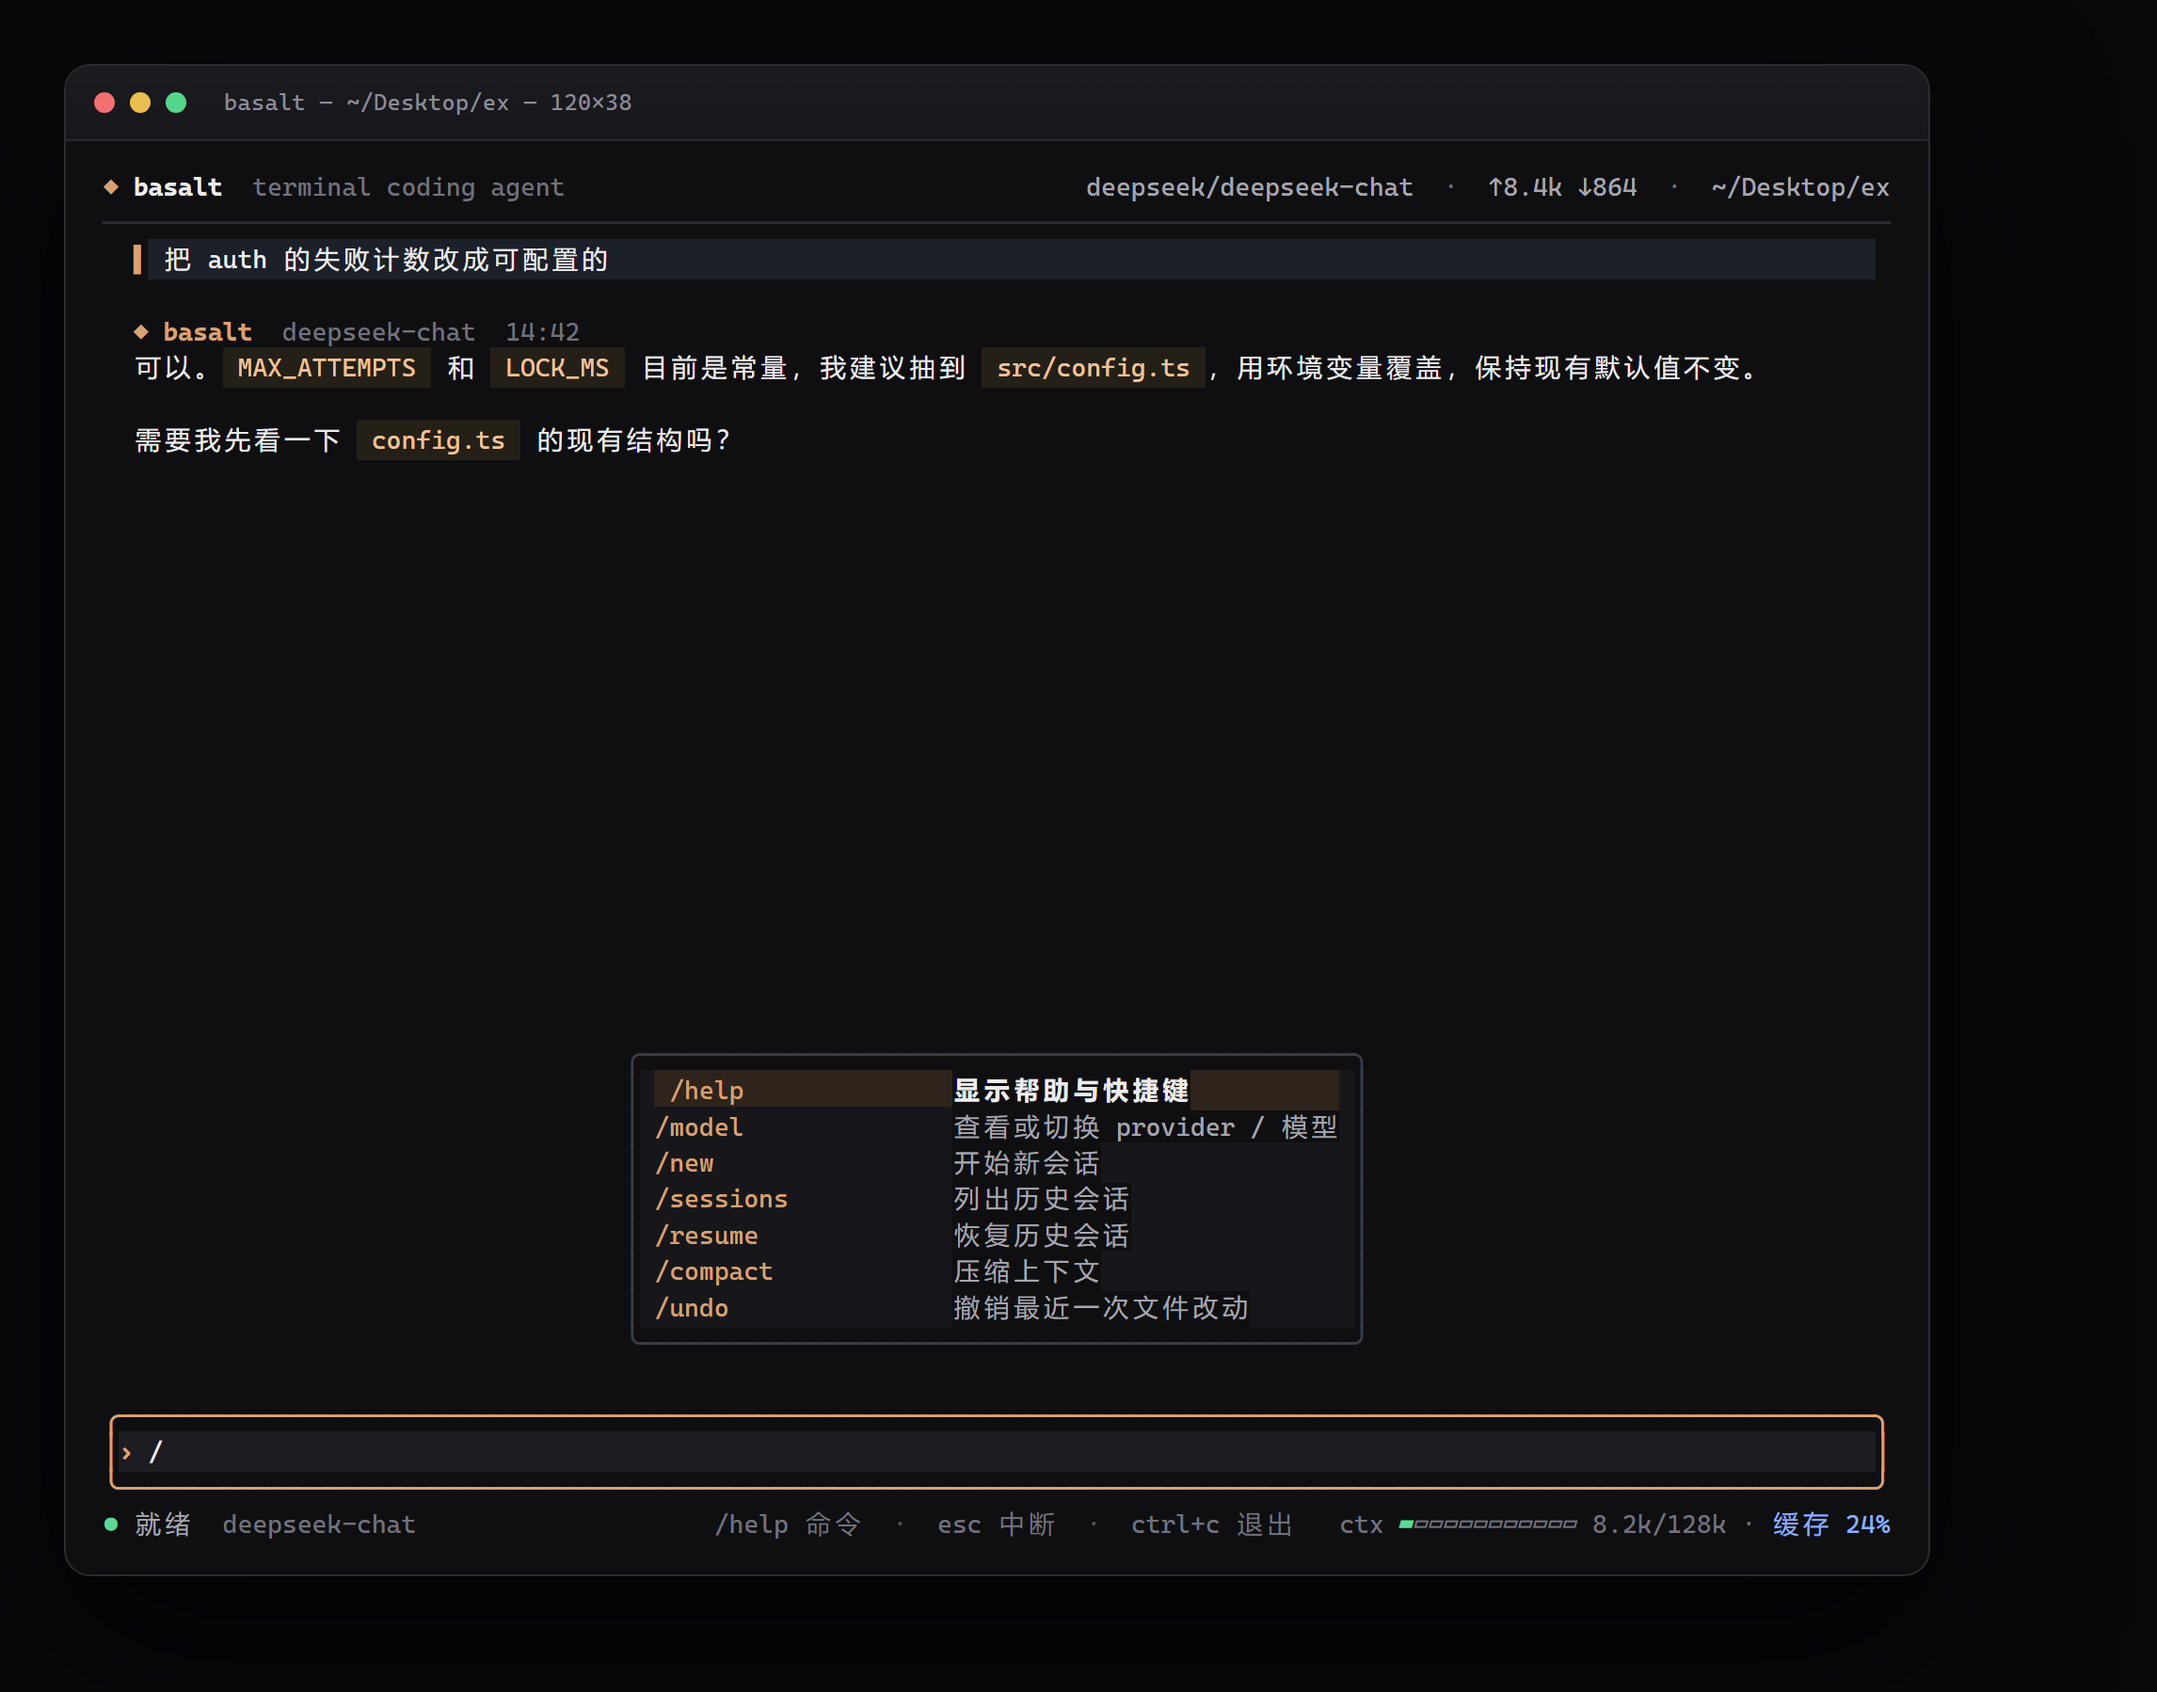
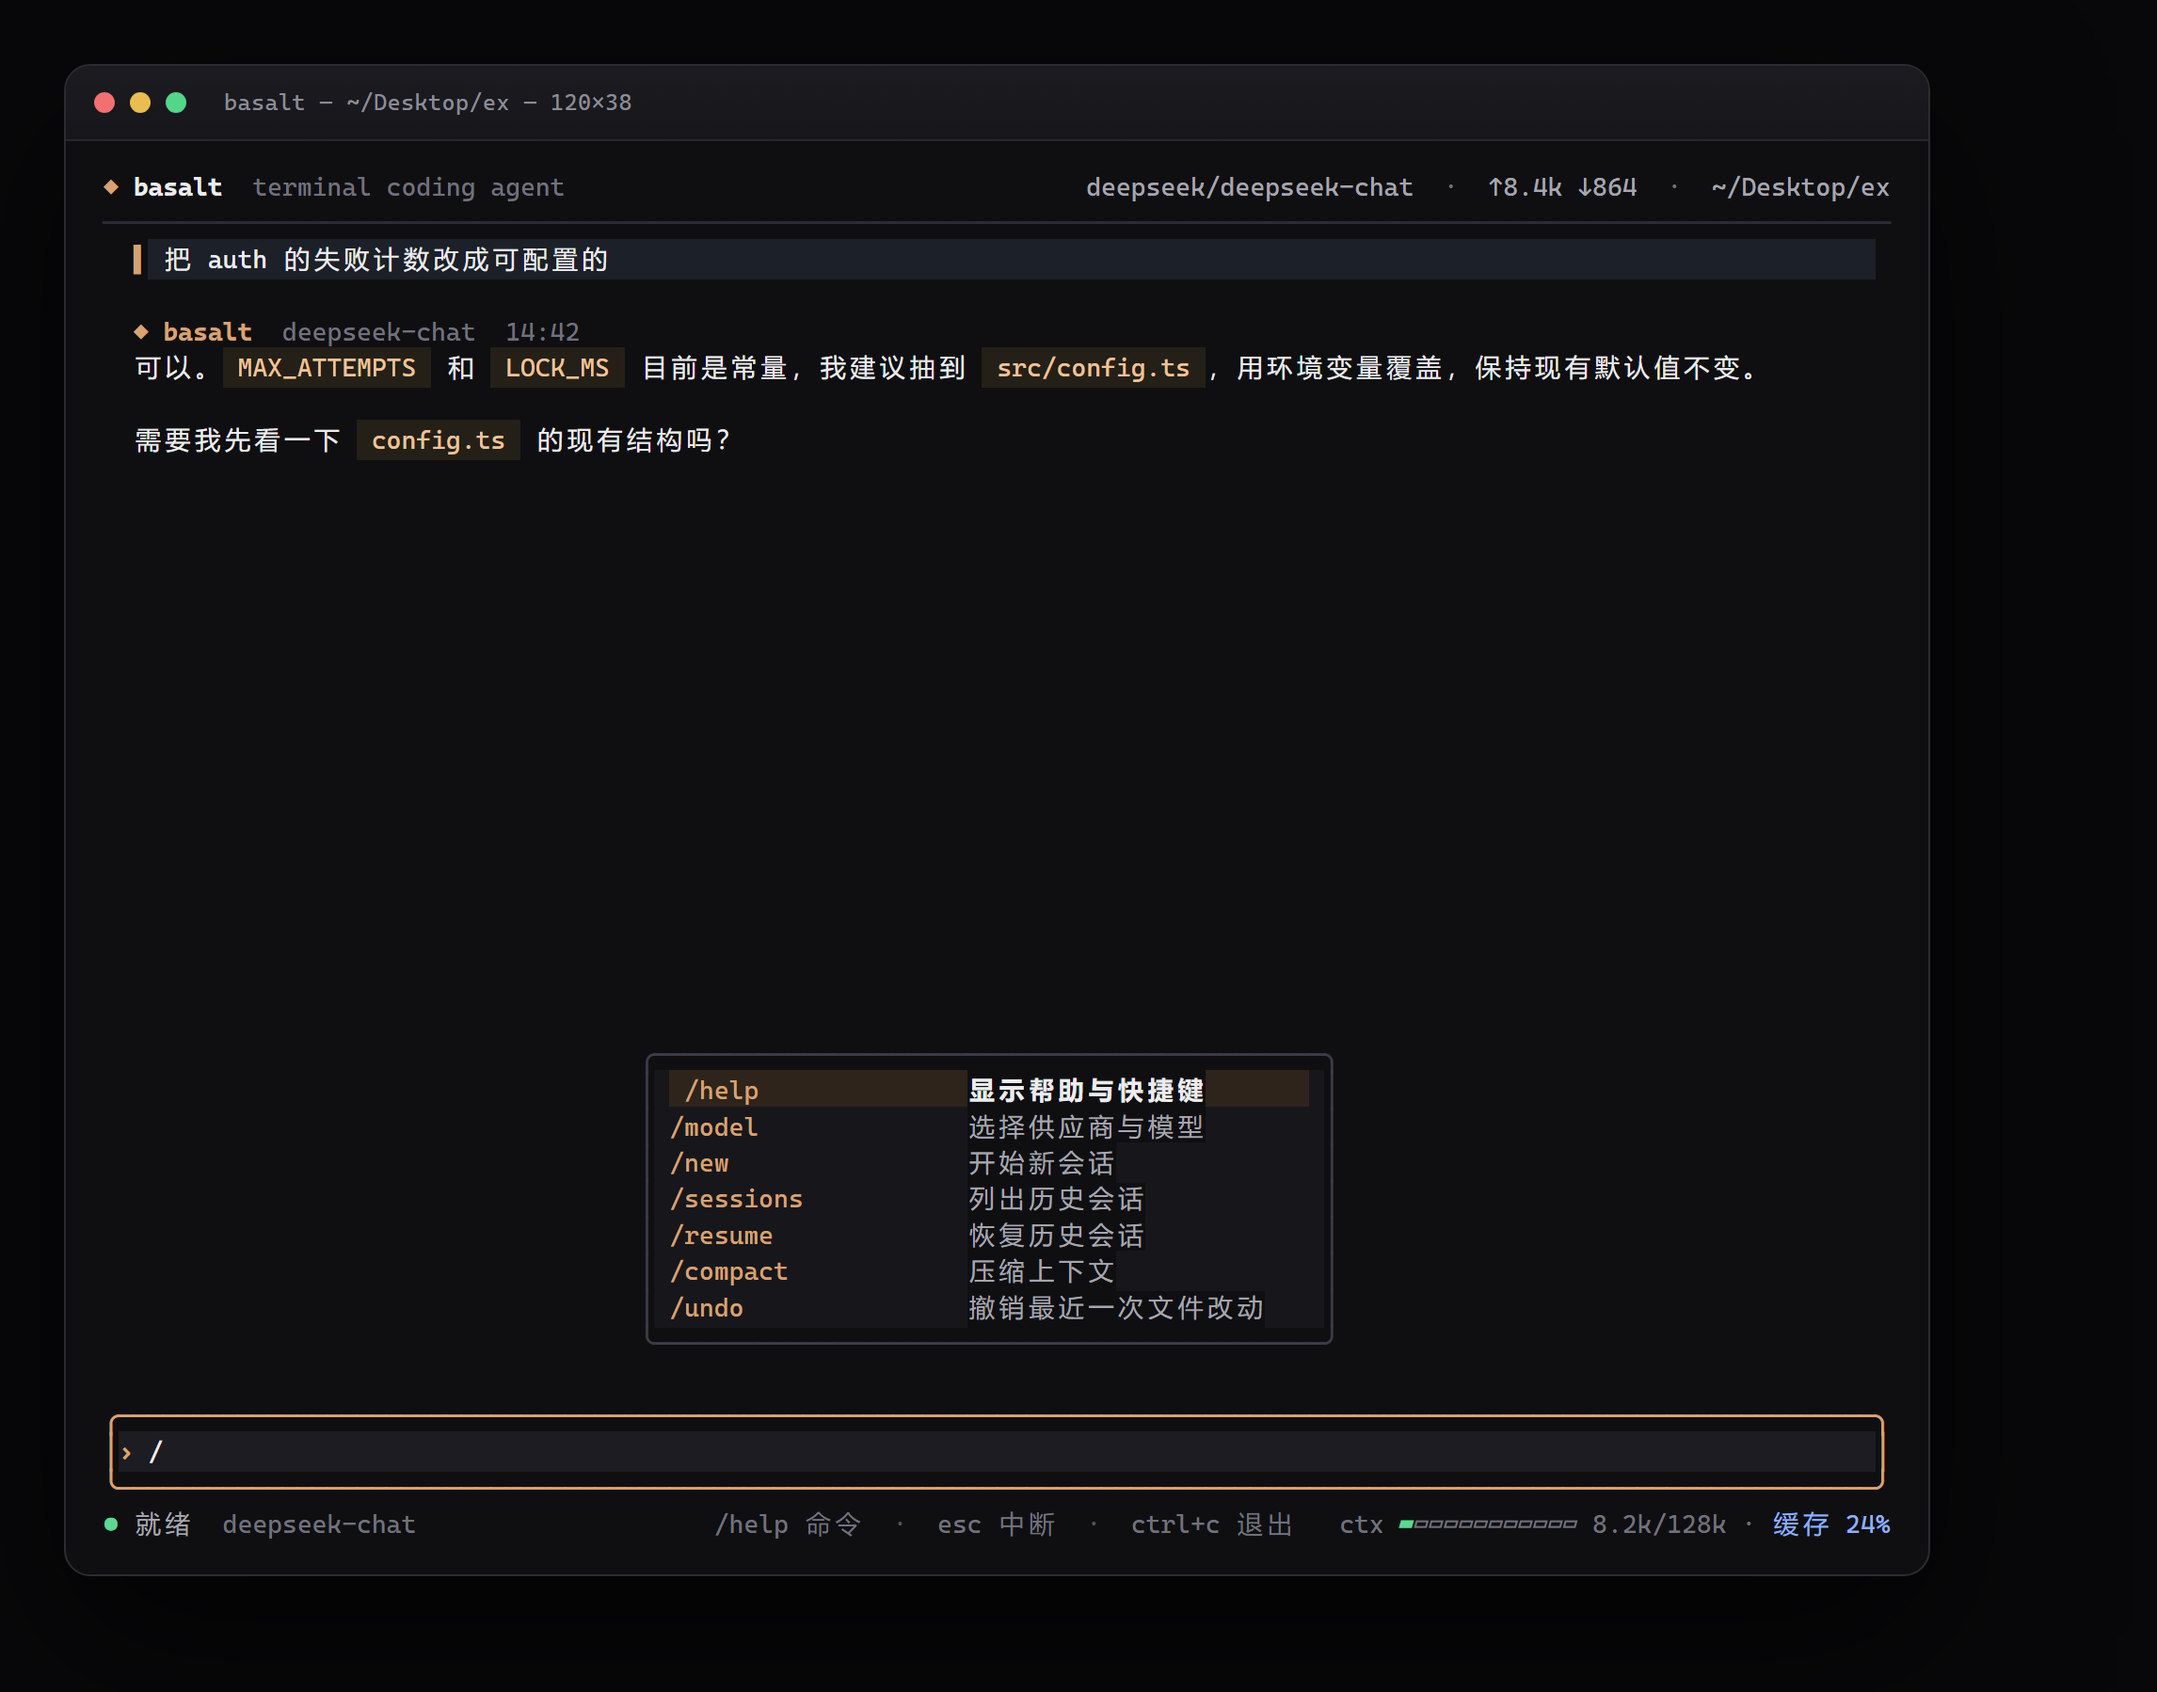
Refresh screenshots and unify provider wording
- Regenerate all seven screenshots from the current build
- Rename the remaining provider labels to 供应商 in the welcome screen and command palette

Changed region(s): [[0.4337, 0.6229, 0.5886, 0.7786], [0.2788, 0.6229, 0.3717, 0.7786], [0.5886, 0.6229, 0.6195, 0.6852]]

diff --git a/basalt-tui/internal/tui/view.go b/basalt-tui/internal/tui/view.go
@@ -152,7 +152,7 @@ func (m *Model) renderWelcome() string {
 	b.WriteString(spaces(pad) + styleBold.Render("快速开始") + "\n")
 	rows := [][2]string{
 		{"/help", "查看全部命令"},
-		{"/model", "切换 provider / 模型"},
+		{"/model", "选择供应商与模型"},
 		{"Tab", "补全命令"},
 		{"Esc", "中断生成"},
 		{"Ctrl+J", "输入框内换行"},

diff --git a/basalt-tui/internal/tui/commands.go b/basalt-tui/internal/tui/commands.go
@@ -23,7 +23,7 @@ func newSlashState() *slashState {
 func allCommands() []slashItem {
 	return []slashItem{
 		{"/help", "显示帮助与快捷键"},
-		{"/model", "查看或切换 provider / 模型"},
+		{"/model", "选择供应商与模型"},
 		{"/new", "开始新会话"},
 		{"/sessions", "列出历史会话"},
 		{"/resume", "恢复历史会话"},
